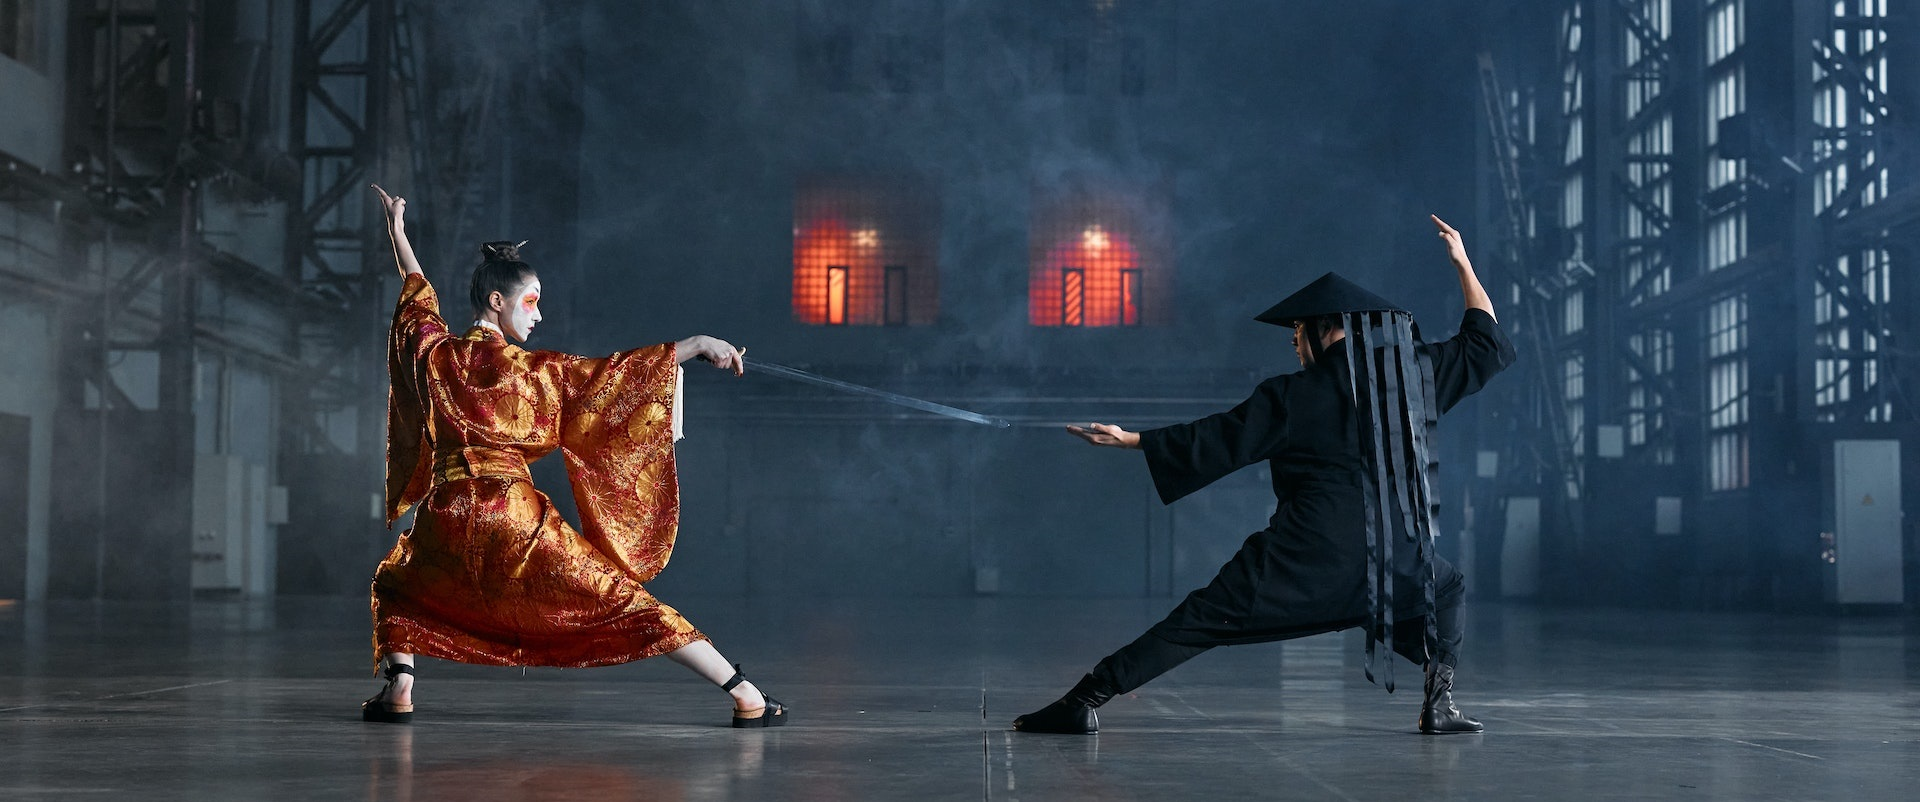
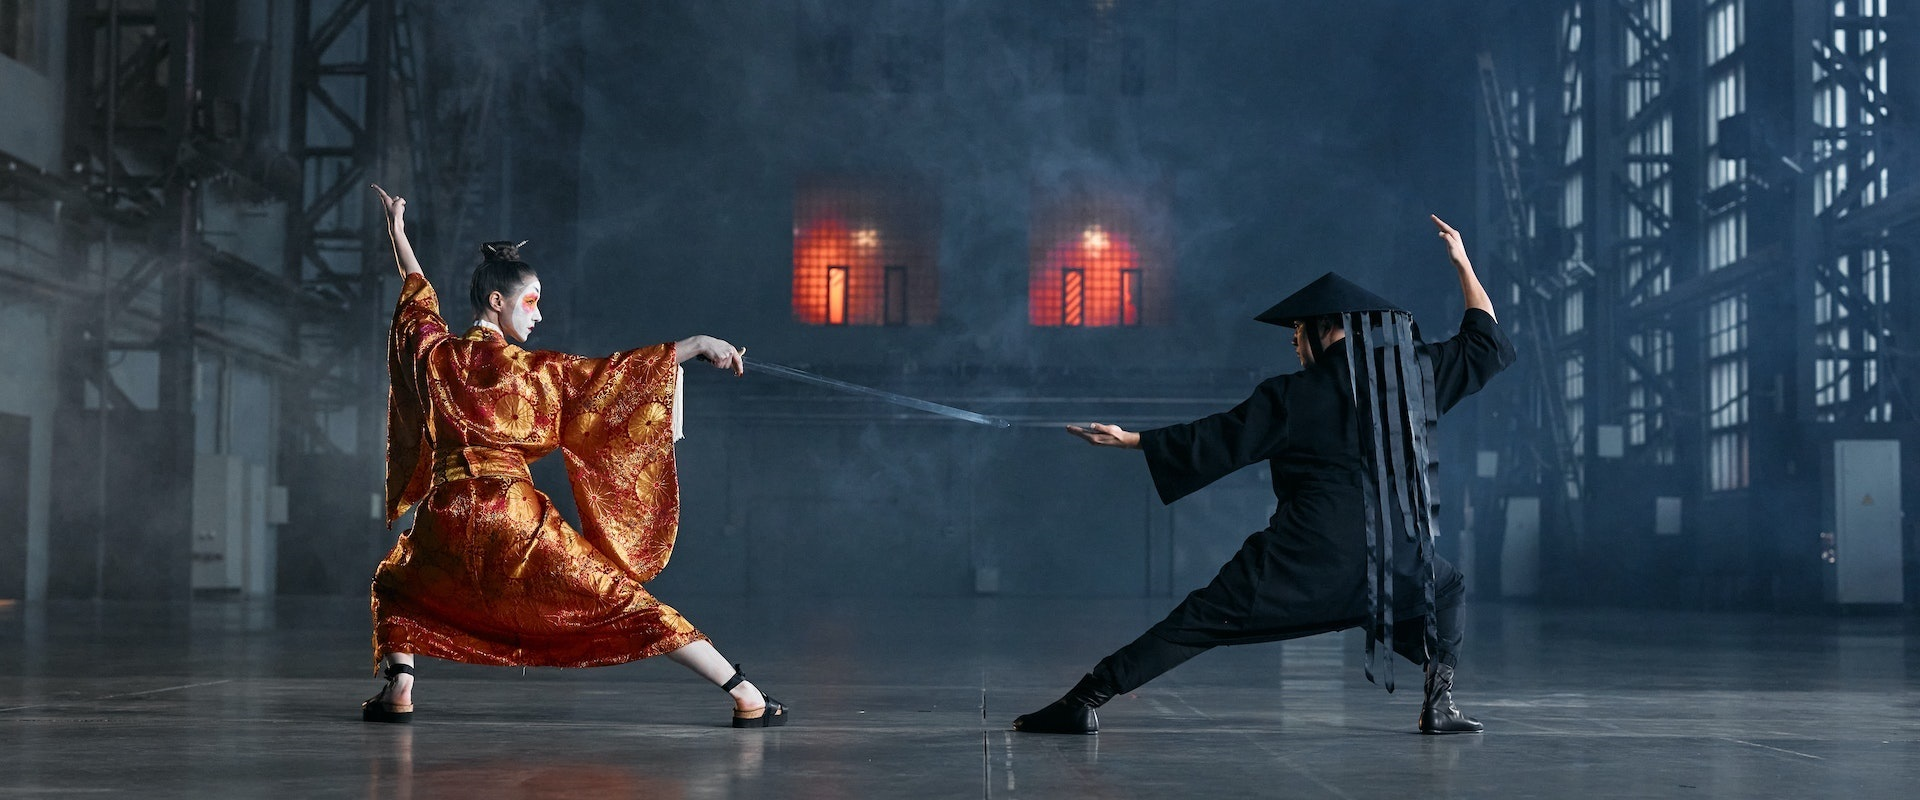
rethought my design, going to be the carousel somewhere else, created basic idea with hero image

diff --git a/index.html b/index.html
@@ -4,13 +4,45 @@
     <meta charset="UTF-8">
     <meta http-equiv="X-UA-Compatible" content="IE=edge">
     <meta name="viewport" content="width=device-width, initial-scale=1, shrink-to-fit=no">
-
-    <title>Document</title>
+    <title>Unbroken Circle</title>
     <link href="https://cdn.jsdelivr.net/npm/bootstrap@5.2.1/dist/css/bootstrap.min.css" rel="stylesheet" integrity="sha384-iYQeCzEYFbKjA/T2uDLTpkwGzCiq6soy8tYaI1GyVh/UjpbCx/TYkiZhlZB6+fzT" crossorigin="anonymous">
     <script defer src="https://cdn.jsdelivr.net/npm/bootstrap@5.2.1/dist/js/bootstrap.bundle.min.js" integrity="sha384-u1OknCvxWvY5kfmNBILK2hRnQC3Pr17a+RTT6rIHI7NnikvbZlHgTPOOmMi466C8" crossorigin="anonymous"></script>
+    <link rel="stylesheet" href="css/style.css">
 </head>
 <body>
-    <div id="carouselExampleDark" class="carousel carousel-dark slide" data-bs-ride="carousel">
+
+  <div id="intro-example" class="p-5 text-center bg-image">
+      <div class="d-flex justify-content-center align-items-center h-50">
+        <div class="text-white">
+          <h5>Promote Your Online Course Like A Pro</h5>
+          <h1 class="mb-3">DevCourse</h1>
+          <h3 class="mb-4">Best & free guide of responsive web design</h3>
+          <a class="btn btn-outline-light btn-lg m-2" href="https://www.youtube.com/watch?v=c9B4TPnak1A"
+            role="button" rel="nofollow" target="_blank">Start Learning Now</a>
+          <div class='row' id="sports">
+              <div class="col-lg-4 col-md-6 col-sm-12">
+                <span>Content</span>
+                <h5>80+ Videos</h5>
+              </div>        
+              <div class="col-lg-4 col-md-6 col-sm-12">
+                <span>Duration</span>
+                <h5>72 Hours</h5>
+              </div>
+              <div class="col-lg-4 col-md-6 col-sm-12">
+                <span>Access</span>
+                <h5>Lifetime</h5>
+              </div>
+          </div> 
+        </div>
+      </div>
+  </div>
+
+
+  
+    <!-- <div class="row d-xs">
+        <h1>Som Dum Gui</h1>
+    </div> -->
+    <!-- <div id="carouselExampleDark" class="carousel carousel-dark slide" data-bs-ride="carousel">
         <div class="carousel-indicators">
           <button type="button" data-bs-target="#carouselExampleDark" data-bs-slide-to="0" class="active" aria-current="true" aria-label="Slide 1"></button>
           <button type="button" data-bs-target="#carouselExampleDark" data-bs-slide-to="1" aria-label="Slide 2"></button>
@@ -25,14 +57,14 @@
             </div>
           </div>
           <div class="carousel-item" data-bs-interval="2000">
-            <img src="..." class="d-block w-100" alt="...">
+            <img src="images/kenjitsu.jpg" class="d-block w-100" alt="...">
             <div class="carousel-caption d-none d-md-block">
               <h5>Second slide label</h5>
               <p>Some representative placeholder content for the second slide.</p>
             </div>
           </div>
           <div class="carousel-item">
-            <img src="..." class="d-block w-100" alt="...">
+            <img src="images/karate.jpg" class="d-block w-100" alt="...">
             <div class="carousel-caption d-none d-md-block">
               <h5>Third slide label</h5>
               <p>Some representative placeholder content for the third slide.</p>
@@ -47,7 +79,28 @@
           <span class="carousel-control-next-icon" aria-hidden="true"></span>
           <span class="visually-hidden">Next</span>
         </button>
-      </div>
+      </div> -->
+      
+      
+      <nav class="navbar navbar-expand-lg navbar-light bg-light">
+        <a class="navbar-brand" href="#">Navbar</a>
+        <button class="navbar-toggler" type="button" data-toggle="collapse" data-target="#navbarNavAltMarkup" aria-controls="navbarNavAltMarkup" aria-expanded="false" aria-label="Toggle navigation">
+          <span class="navbar-toggler-icon"></span>
+        </button>
+        
+        <div class="collapse navbar-collapse" id="navbarNavAltMarkup">
+          <div class="navbar-nav">
+            <a class="nav-item nav-link" href="#">Overview</a>
+            <a class="nav-item nav-link" href="#">Content</a>
+            <a class="nav-item nav-link" href="#">Requirements</a>
+            <a class="nav-item nav-link" href="#">Tutor</a>
+            <a class="nav-item nav-link" href="#">Reviews</a>
+            <a class="nav-item nav-link" href="#">Pricing</a>
+            <a class="nav-item nav-link" href="#">FAQ</a>
+          </div>
+        </div>
+      </nav> 
+
 
 </body>
 </html>

diff --git a/css/style.css b/css/style.css
@@ -1,0 +1,24 @@
+.carousel-caption {
+  z-index: 20;
+  text-align: center;
+  position: absolute;
+  top: 40%;
+  left: 50%;
+  transform: translate(-50%, -50%);
+  color: white;
+  text-transform: uppercase;
+}
+
+.navbar-nav {
+  margin: 0;
+  padding: 7.5px 15px;
+}
+
+.bg-image {
+  background-image: linear-gradient(rgba(0, 0, 0, 0.5), rgba(0, 0, 0, 0.5)), url("../images/kenjitsu.jpg");
+  background-size: cover;
+  height: 90vh;
+  background-position: center;
+}
+
+/*# sourceMappingURL=style.css.map */

diff --git a/scss/style.scss b/scss/style.scss
@@ -1,0 +1,22 @@
+.carousel-caption {
+    z-index: 20;
+    text-align: center;
+    position: absolute;
+    top: 40%;
+    left: 50%;
+    transform: translate(-50%, -50%);
+    color: white;
+    text-transform: uppercase;
+  }
+
+  .navbar-nav {
+    margin: 0;
+    padding: 7.5px 15px;
+}
+ 
+.bg-image {
+  background-image: linear-gradient(rgba(0, 0, 0, 0.5), rgba(0, 0, 0, 0.5)), url('../images/kenjitsu.jpg');
+  background-size: cover;
+  height: 90vh;
+  background-position: center;
+}
